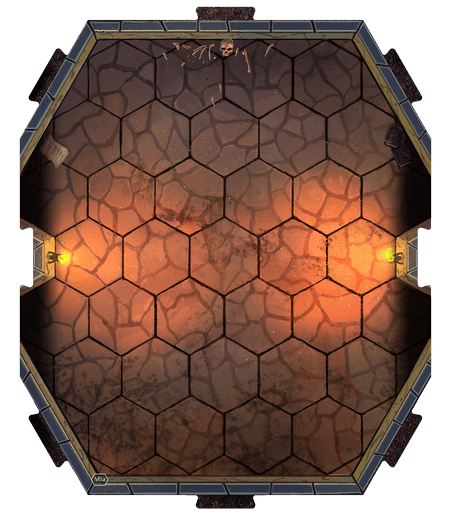
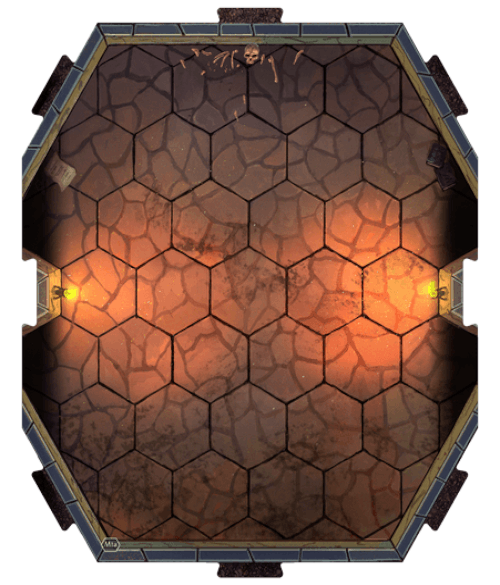
Adds M tile set and normalizes images

diff --git a/static/scss/main.scss b/static/scss/main.scss
@@ -110,6 +110,9 @@ $hexRotation: 60deg;
             ('l2b', -25px, -47px)
             ('l3a', -25px, -47px)
             ('l3b', -25px, -47px)
+
+            ('m1a', -20px, -45px)
+            ('m1b', -22px, -46px)
         ;
         @each $tile in $tiles {
             $key: nth($tile, 1);
@@ -134,7 +137,6 @@ $hexRotation: 60deg;
 
                 &.passable {
                     background-color: rgba(0, 0, 255, 0.75);
-                    opacity: 0.5;
                 }
 
                 &.impassable {
@@ -142,8 +144,10 @@ $hexRotation: 60deg;
                 }
 
                 .player {
+                    cursor: move;
                     width: 100%;
                     height: 100%;
+                    position:relative;
                     clip-path:inherit;
                 }
             }
